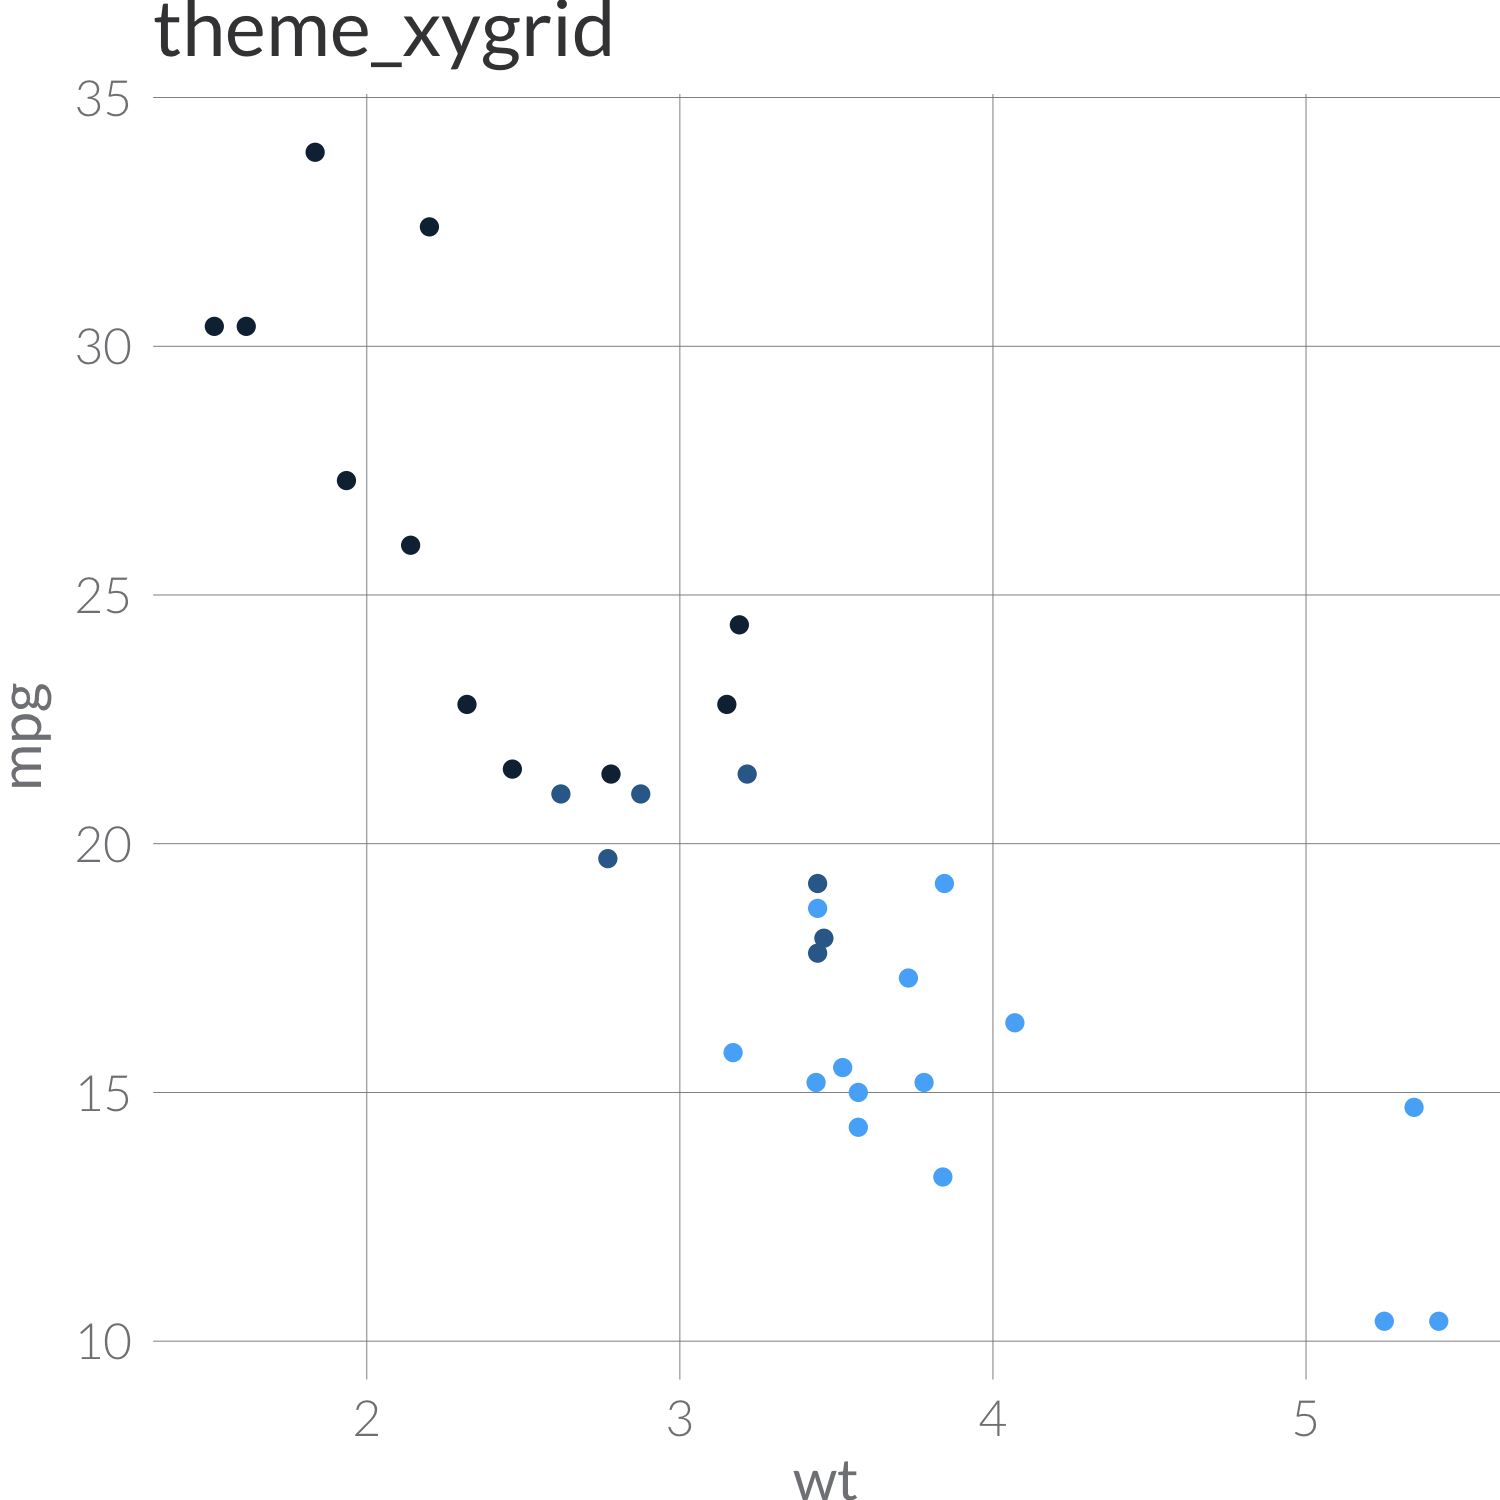
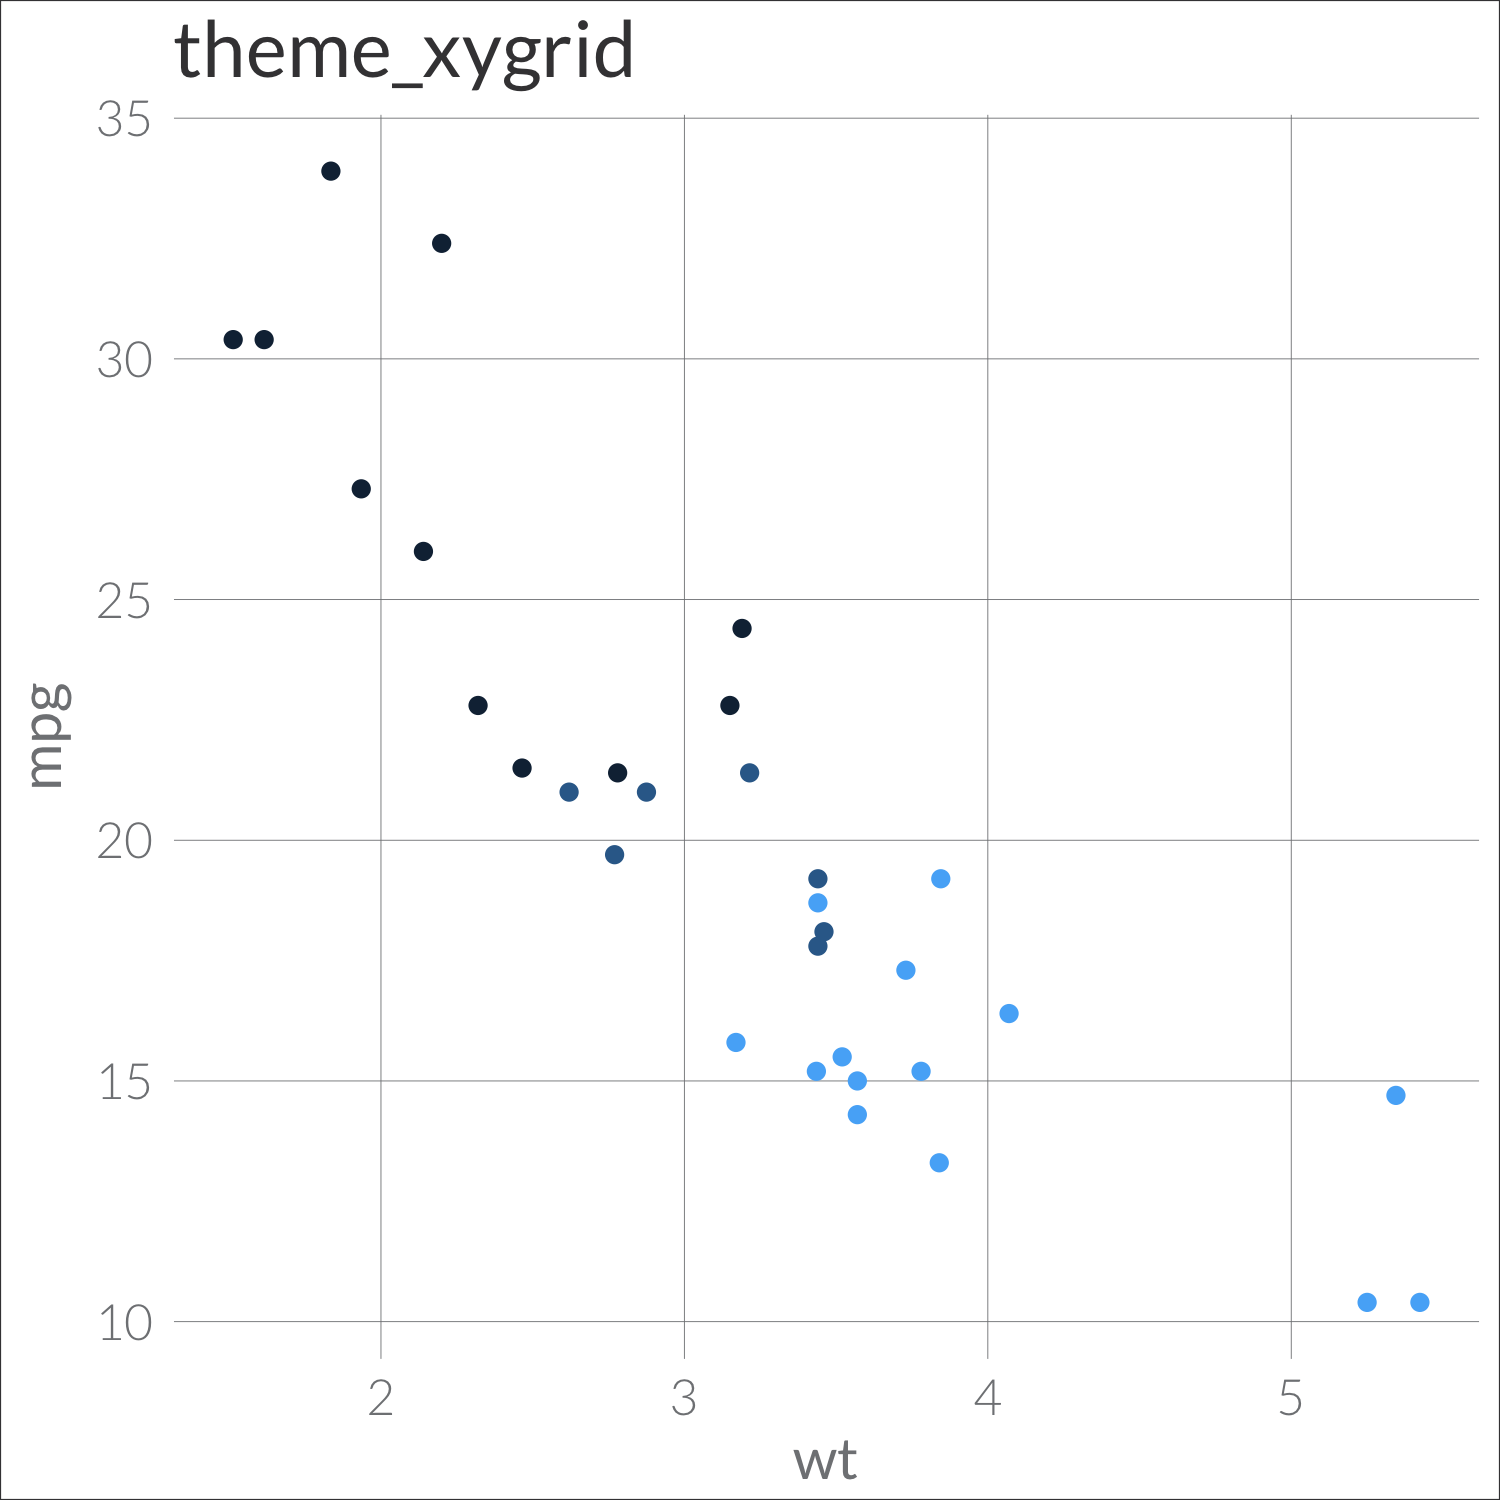
grey bckgrnd --> stroke

diff --git a/_site/index.html b/_site/index.html
@@ -127,7 +127,7 @@
 
               <!-- image -->
               <a class="post-link" href="/themes/theme_basic/">
-                <img class="post-icon" src="/img_themes/theme_basic_grey.png"></img> </a>
+                <img class="post-icon" src="/img_themes/theme_basic.png"></img> </a>
                 <!-- title/link -->
                 <span h2>
                   <a class="post-link" href="/themes/theme_basic/">theme_basic</a>
@@ -166,7 +166,7 @@
 
               <!-- image -->
               <a class="post-link" href="/themes/theme_xaxis/">
-                <img class="post-icon" src="/img_themes/theme_xaxis_grey.png"></img> </a>
+                <img class="post-icon" src="/img_themes/theme_xaxis.png"></img> </a>
                 <!-- title/link -->
                 <span h2>
                   <a class="post-link" href="/themes/theme_xaxis/">theme_xaxis</a>
@@ -179,7 +179,7 @@
 
               <!-- image -->
               <a class="post-link" href="/themes/theme_xgrid/">
-                <img class="post-icon" src="/img_themes/theme_xgrid_grey.png"></img> </a>
+                <img class="post-icon" src="/img_themes/theme_xgrid.png"></img> </a>
                 <!-- title/link -->
                 <span h2>
                   <a class="post-link" href="/themes/theme_xgrid/">theme_xgrid</a>
@@ -192,7 +192,7 @@
 
               <!-- image -->
               <a class="post-link" href="/themes/theme_xlab/">
-                <img class="post-icon" src="/img_themes/theme_xlab_grey.png"></img> </a>
+                <img class="post-icon" src="/img_themes/theme_xlab.png"></img> </a>
                 <!-- title/link -->
                 <span h2>
                   <a class="post-link" href="/themes/theme_xlab/">theme_xlab</a>
@@ -205,7 +205,7 @@
 
               <!-- image -->
               <a class="post-link" href="/themes/theme_xygrid/">
-                <img class="post-icon" src="/img_themes/theme_xygrid_grey.png"></img> </a>
+                <img class="post-icon" src="/img_themes/theme_xygrid.png"></img> </a>
                 <!-- title/link -->
                 <span h2>
                   <a class="post-link" href="/themes/theme_xygrid/">theme_xygrid</a>
@@ -218,7 +218,7 @@
 
               <!-- image -->
               <a class="post-link" href="/themes/theme_xylab/">
-                <img class="post-icon" src="/img_themes/theme_xylab_grey.png"></img> </a>
+                <img class="post-icon" src="/img_themes/theme_xylab.png"></img> </a>
                 <!-- title/link -->
                 <span h2>
                   <a class="post-link" href="/themes/theme_xylab/">theme_xylab</a>
@@ -231,7 +231,7 @@
 
               <!-- image -->
               <a class="post-link" href="/themes/theme_yaxis/">
-                <img class="post-icon" src="/img_themes/theme_yaxis_grey.png"></img> </a>
+                <img class="post-icon" src="/img_themes/theme_yaxis.png"></img> </a>
                 <!-- title/link -->
                 <span h2>
                   <a class="post-link" href="/themes/theme_yaxis/">theme_yaxis</a>
@@ -244,7 +244,7 @@
 
               <!-- image -->
               <a class="post-link" href="/themes/theme_ygrid/">
-                <img class="post-icon" src="/img_themes/theme_ygrid_grey.png"></img> </a>
+                <img class="post-icon" src="/img_themes/theme_ygrid.png"></img> </a>
                 <!-- title/link -->
                 <span h2>
                   <a class="post-link" href="/themes/theme_ygrid/">theme_ygrid</a>
@@ -257,7 +257,7 @@
 
               <!-- image -->
               <a class="post-link" href="/themes/theme_ylab/">
-                <img class="post-icon" src="/img_themes/theme_ylab_grey.png"></img> </a>
+                <img class="post-icon" src="/img_themes/theme_ylab.png"></img> </a>
                 <!-- title/link -->
                 <span h2>
                   <a class="post-link" href="/themes/theme_ylab/">theme_ylab</a>
